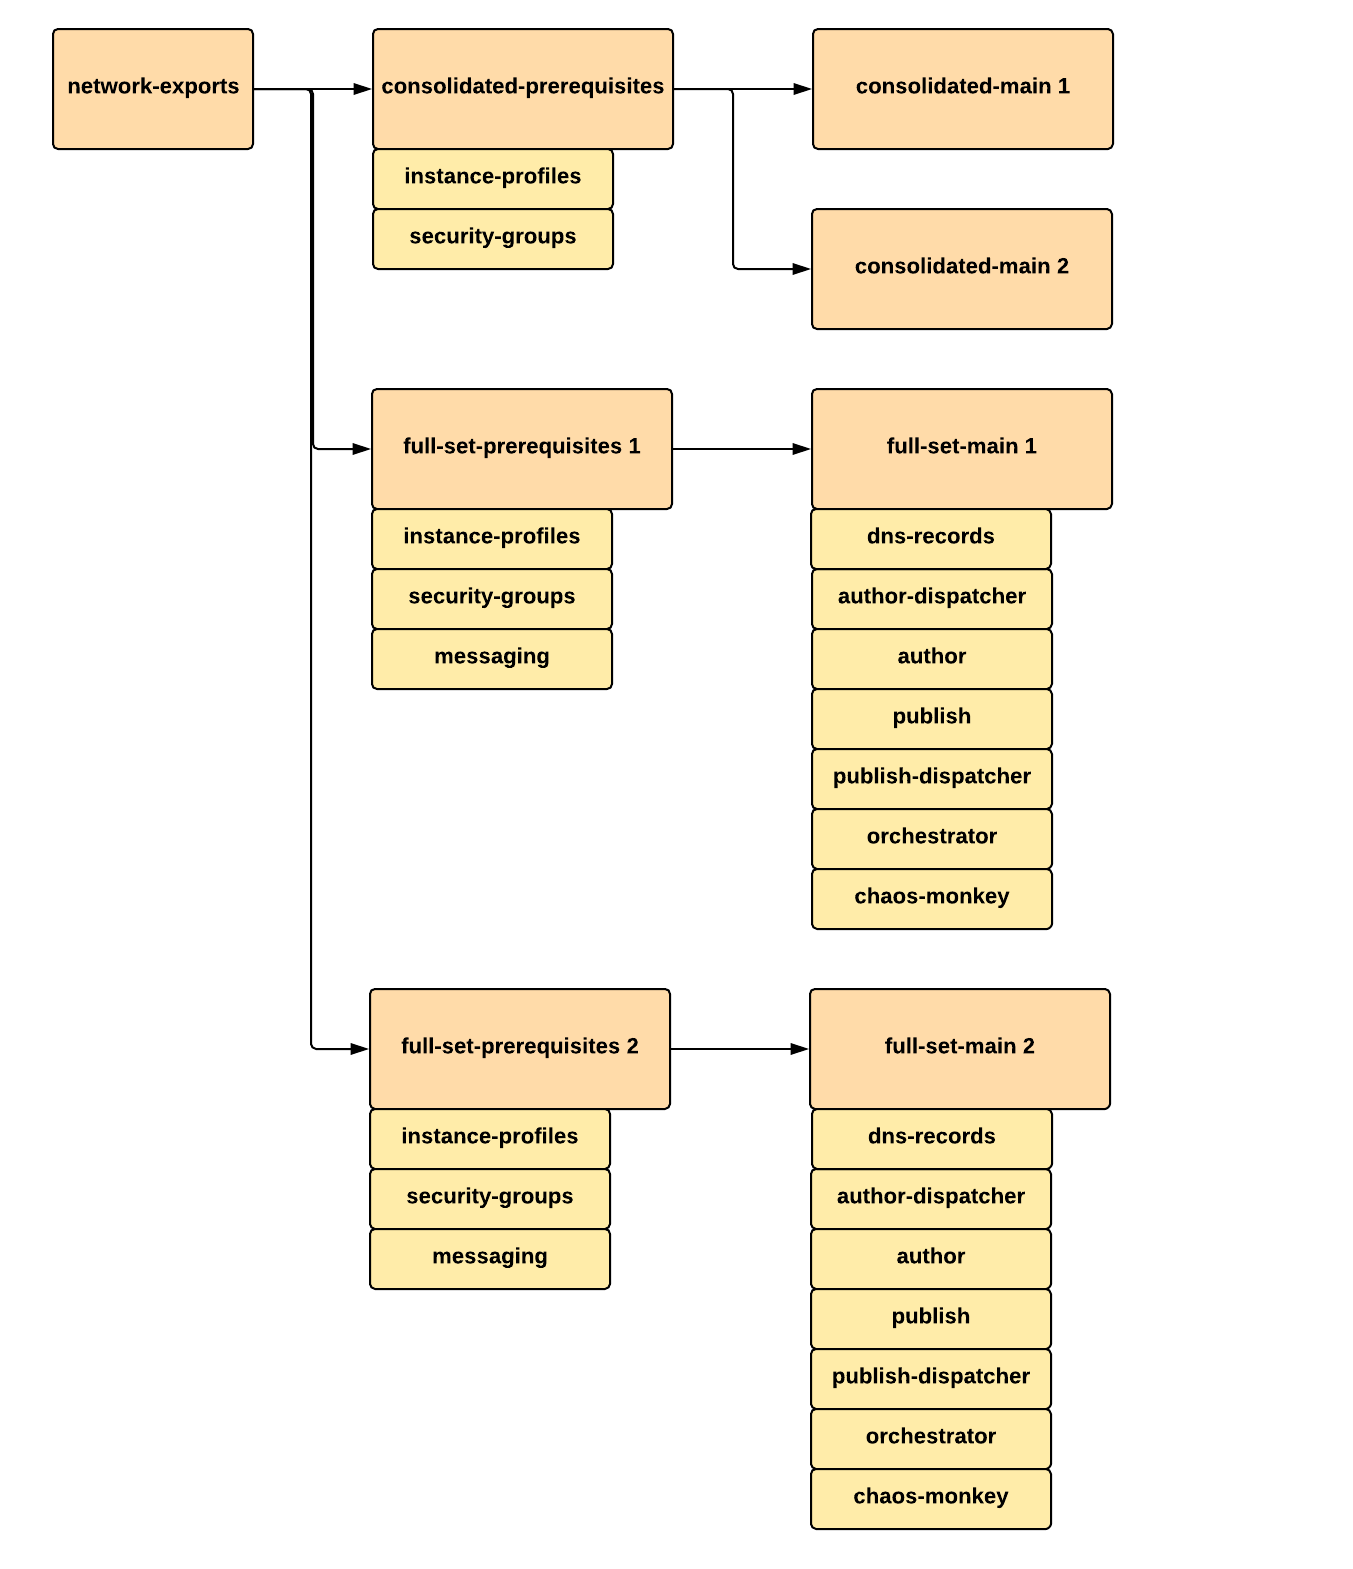
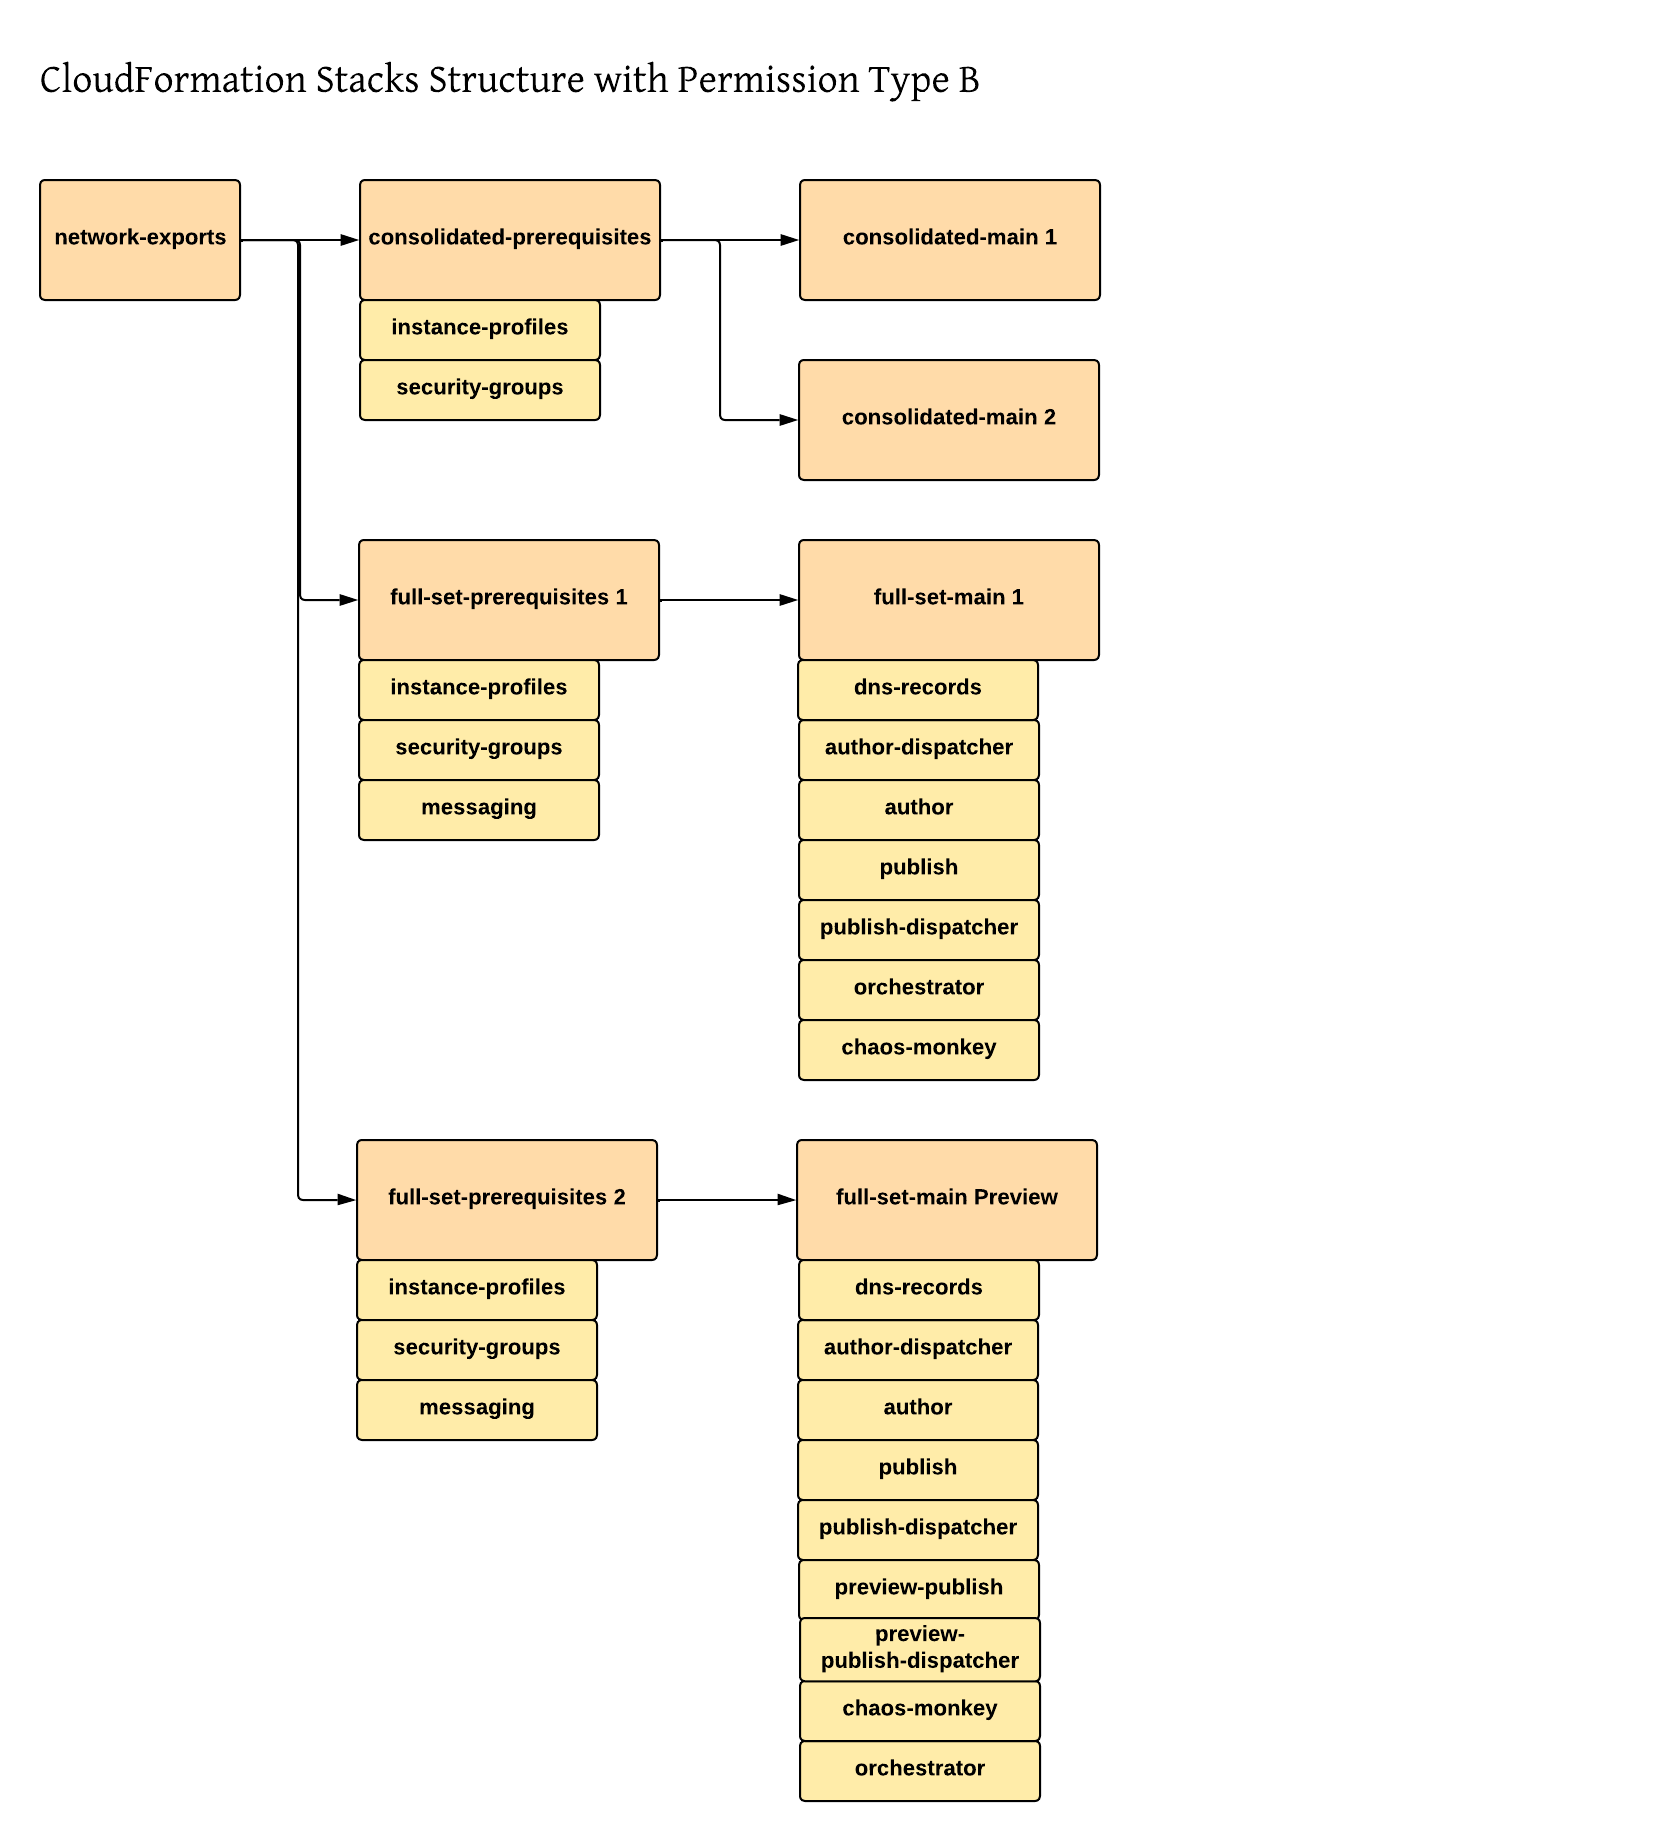
Update documentation

diff --git a/docs/communication-flow.md b/docs/communication-flow.md
@@ -4,6 +4,12 @@ Communication Flow
 The communication between components within AEM architecture is uses HTTPS by default. The intention is obviously to encourage users to use HTTPS for security reason.
 
 <table>
+
+<tr>
+<td valign="top">
+<img width="1200" alt="AEM Full-Set Communication Flow Diagram" src="communication-flow-full-set.png"/>
+</td>
+</tr>
 <tr>
 <td valign="top">
 <ol>
@@ -22,6 +28,21 @@ The communication between components within AEM architecture is uses HTTPS by de
 <p>AEM Publish-Dispatcher is configured to point to AEM Publish as its farm's website render via HTTPS on port 5433 with <code>secure</code> setting enabled.</p>
 <strong>From Publish EC2 instance to Publish-Dispatcher EC2 instance</strong>
 <p>AEM Publish is configured with a flush agent that points to AEM Publish-Dispatcher via HTTPS on port 443.</p>
+</li>
+<li>
+<strong>(Optional) From Stakeholder to Preview-Publish-Dispatcher ELB</strong>
+<p>Stakeholders can connect to Preview-Publish-Dispatcher ELB via HTTPS on port 443. Alternatively.</p>
+</li>
+<li>
+<strong>(optional) From Preview-Publish-Dispatcher ELB to Preview-Publish-Dispatcher EC2 instance</strong>
+<p>Preview-Publish-Dispatcher ELB connects to Preview-Publish-Dispatcher EC2 instance via HTTPS on port 443.</p>
+<p>Preview-Publish-Dispatcher ELB health monitoring checks Preview-Publish-Dispatcher EC2 instance only via HTTPS on port 443, at path <code>/system/health?tags=shallow</code> .</p>
+</li>
+<li>
+<strong>(Optional) From Publish-Dispatcher EC2 instance to Publish EC2 instance</strong>
+<p>AEM Preview-Publish-Dispatcher is configured to point to AEM Preview-Publish as its farm's website render via HTTPS on port 5433 with <code>secure</code> setting enabled.</p>
+<strong>From Preview-Publish EC2 instance to Preview-Publish-Dispatcher EC2 instance</strong>
+<p>AEM Preview-Publish is configured with a flush agent that points to AEM Preview-Publish-Dispatcher via HTTPS on port 443.</p>
 </li>
 <li>
 <strong>From Author-Primary EC2 instance to Publish EC2 instance</strong>
@@ -51,9 +72,6 @@ The communication between components within AEM architecture is uses HTTPS by de
 <p>However, most users often have a layer (e.g. routing via a reverse proxy) sitting in front of the AEM architecture, which connects to AEM Author-Dispatcher ELB only via HTTPS.</p>
 </li>
 </ol>
-</td>
-<td valign="top">
-<img width="600" alt="AEM Full-Set Communication Flow Diagram" src="https://raw.githubusercontent.com/shinesolutions/aem-aws-stack-builder/master/docs/communication-flow-full-set.png"/>
 </td>
 </tr>
 </table>

diff --git a/docs/stacks-structure.md b/docs/stacks-structure.md
@@ -26,8 +26,8 @@ For example, `instance-profiles` stack contains AWS resources that will be provi
 
 ### Stack structure diagram for permission type b
 
-<img width="800" alt="AEM Full-Set Stacks Structure Diagram For Permission Type b" src="https://raw.githubusercontent.com/shinesolutions/aem-aws-stack-builder/master/docs/stacks-structure-permission-type-b.png"/>
+<img width="800" alt="AEM Full-Set Stacks Structure Diagram For Permission Type b" src="stacks-structure-permission-type-b.png"/>
 
 ### Stack structure diagram for permission type c
 
-<img width="800" alt="AEM Full-Set Stacks Structure Diagram For Permission Type c" src="https://raw.githubusercontent.com/shinesolutions/aem-aws-stack-builder/master/docs/stacks-structure-permission-type-c.png"/>
+<img width="800" alt="AEM Full-Set Stacks Structure Diagram For Permission Type c" src="stacks-structure-permission-type-c.png"/>
